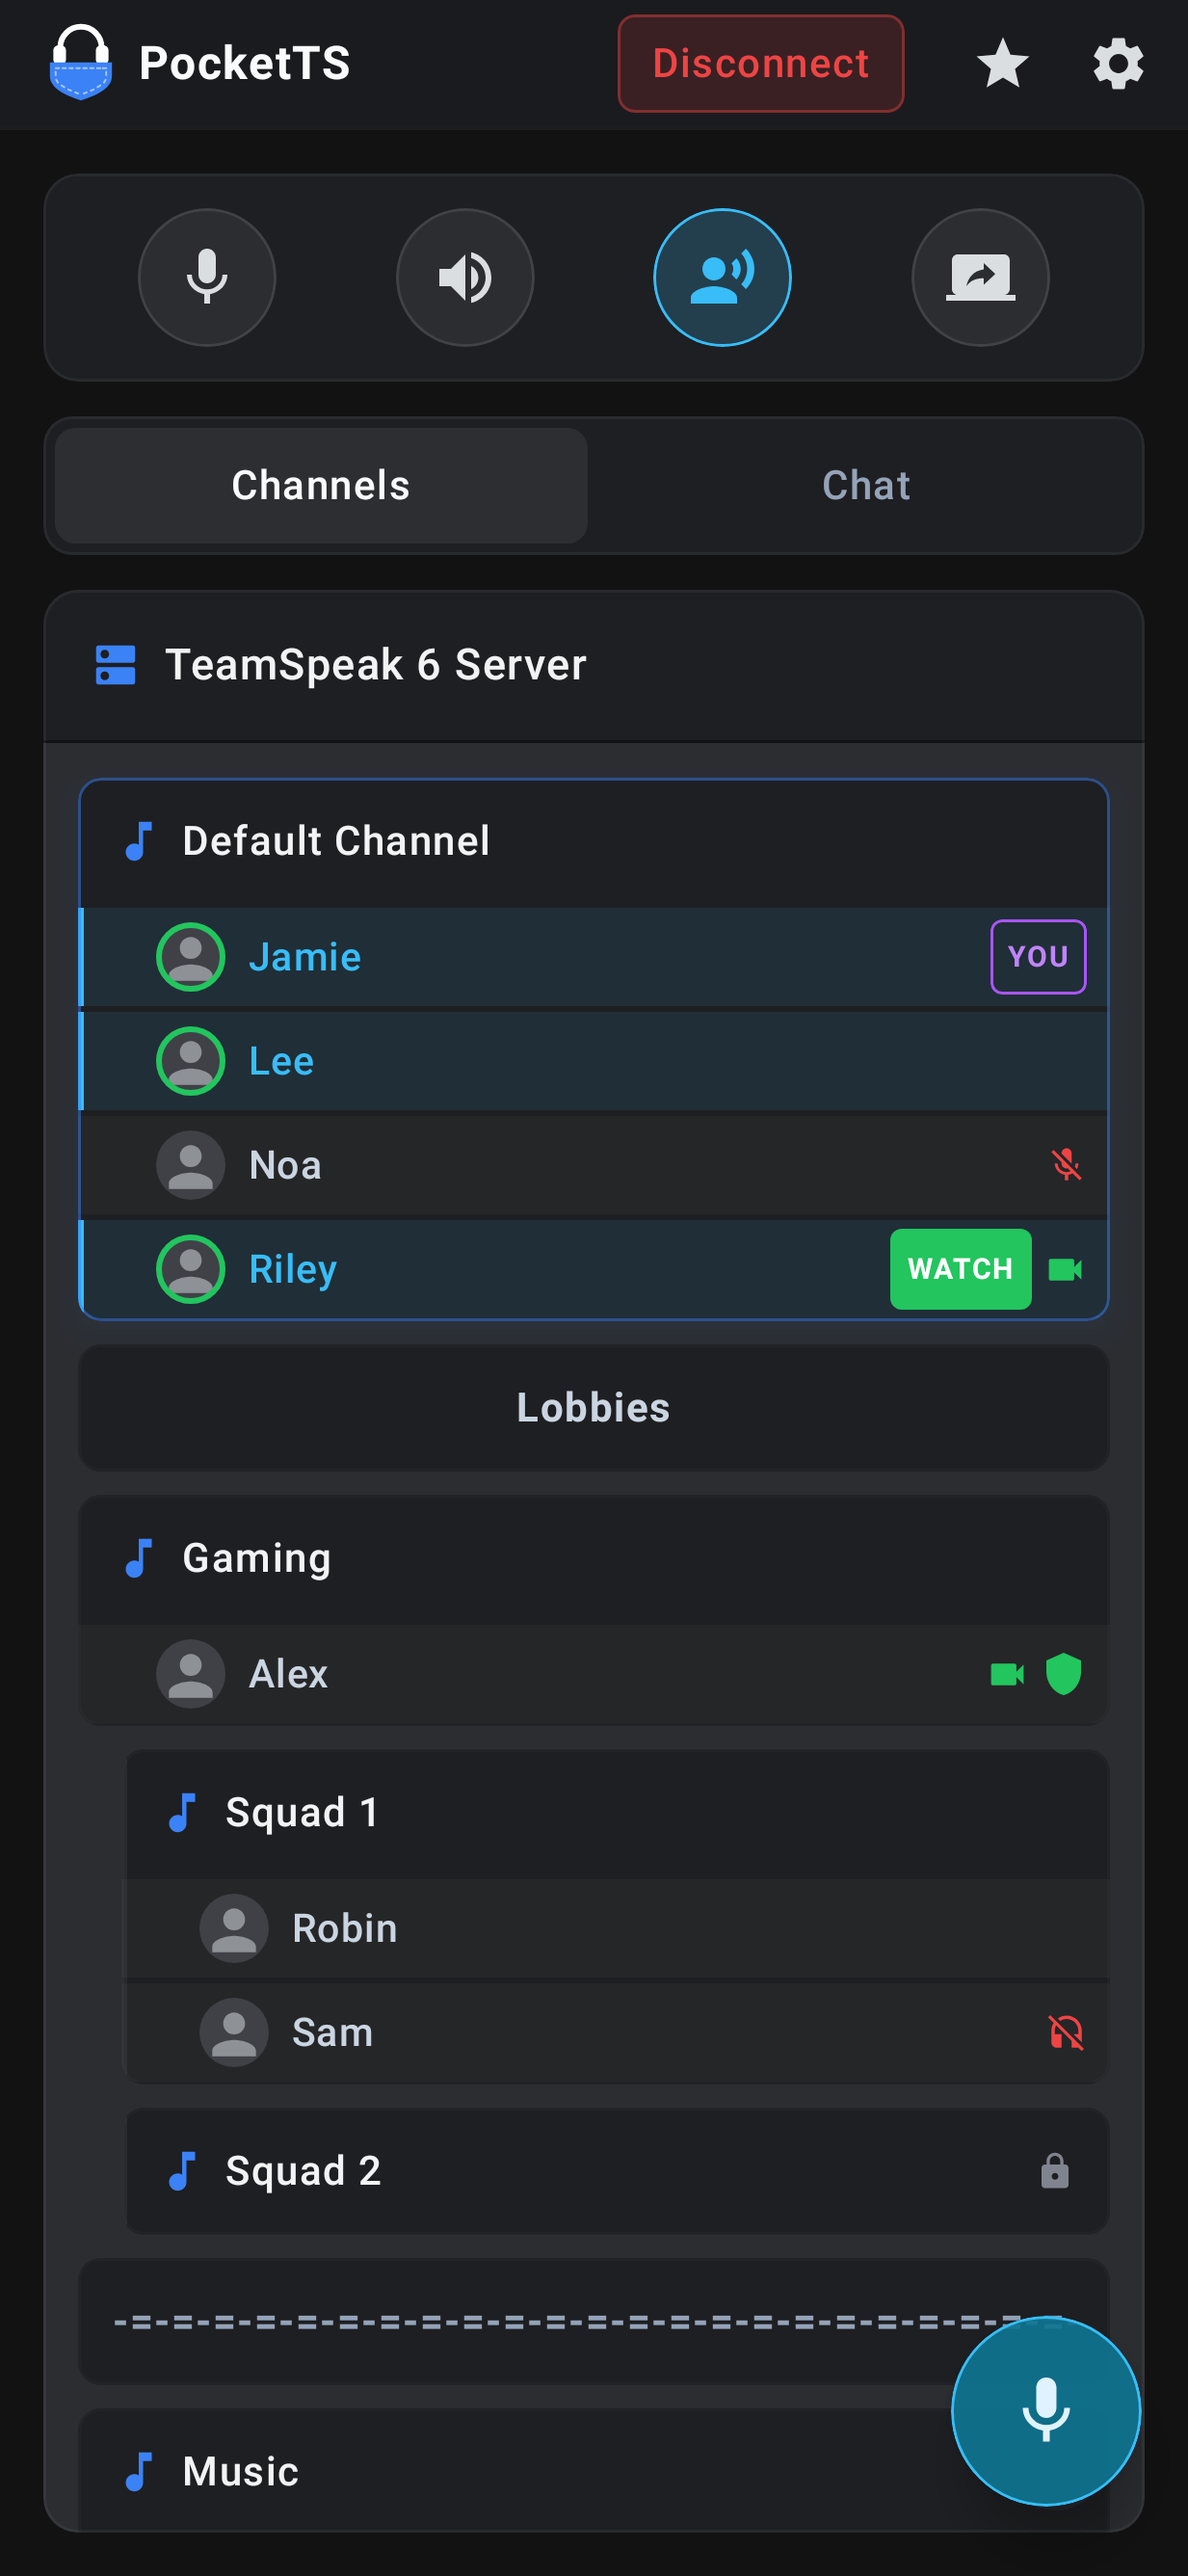
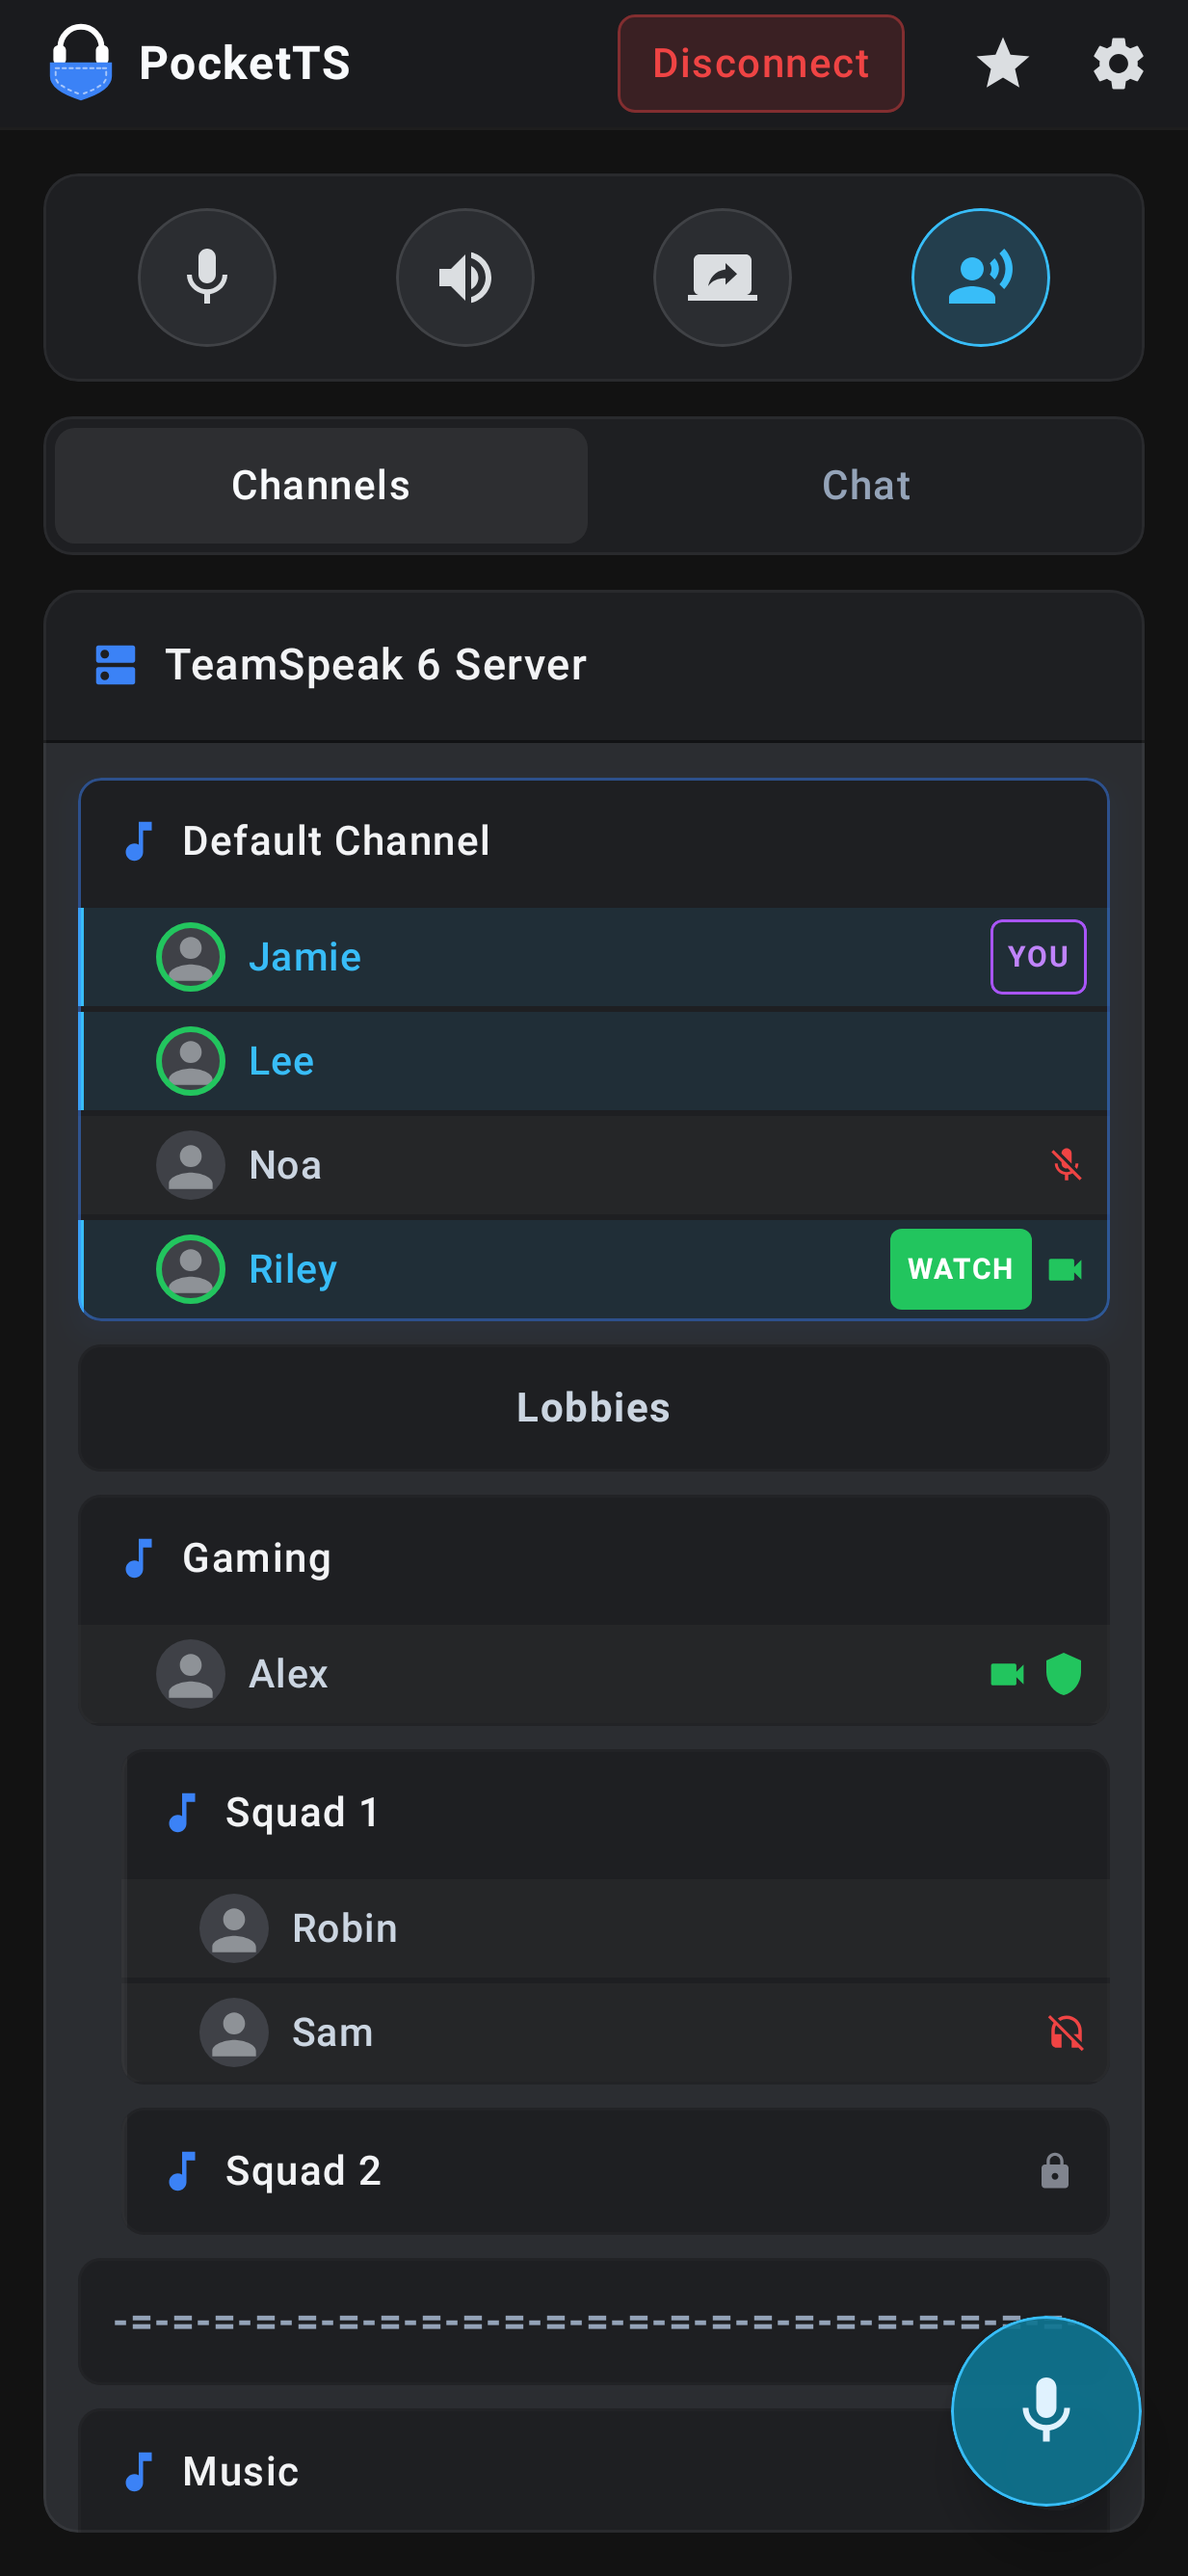
Put push-to-talk last among the buttons, and clarify its two round buttons
The push-to-talk button is now the rightmost, where a thumb reaches it
most easily. The descriptions of the in-app round button and the button
over other apps now say that they are separate settings: the one over
other apps shows only outside PocketTS.

Changed region(s): [[0.7705, 0.0621, 0.8938, 0.1553], [0.5547, 0.0621, 0.678, 0.1553]]

diff --git a/app/src/main/kotlin/io/github/korppujauho/pocketts/ui/Screens.kt b/app/src/main/kotlin/io/github/korppujauho/pocketts/ui/Screens.kt
@@ -214,7 +214,6 @@ fun ControlsBar(
             if (soundOff) Icons.AutoMirrored.Filled.VolumeOff else Icons.AutoMirrored.Filled.VolumeUp,
             stringResource(R.string.sound), off = soundOff, onClick = onSound,
         )
-        ptt?.invoke()
         if (onShare != null) {
             Box(
                 Modifier.size(48.dp).clip(CircleShape).background(if (sharing) Color(0xFF23A559) else Ts.button)
@@ -224,6 +223,8 @@ fun ControlsBar(
                 Icon(Icons.Filled.ScreenShare, contentDescription = stringResource(R.string.share), tint = if (sharing) Color.White else Ts.text, modifier = Modifier.upright())
             }
         }
+        // Push-to-talk last: on the right, where a thumb reaches it most easily
+        ptt?.invoke()
     }
 }
 

diff --git a/CHANGELOG.md b/CHANGELOG.md
@@ -5,6 +5,7 @@
 - **Buttons at the bottom** (Settings › UI): the microphone, sound, push-to-talk and share buttons and the
   Channels/Chat switch move to the bottom of the screen, within reach of your thumb. The round push-to-talk button
   stays above them, and they step aside while you type in the chat.
+- The push-to-talk button is now the rightmost of the buttons, where a thumb reaches it most easily.
 
 ## 1.2.0 (2026-10-22)
 
